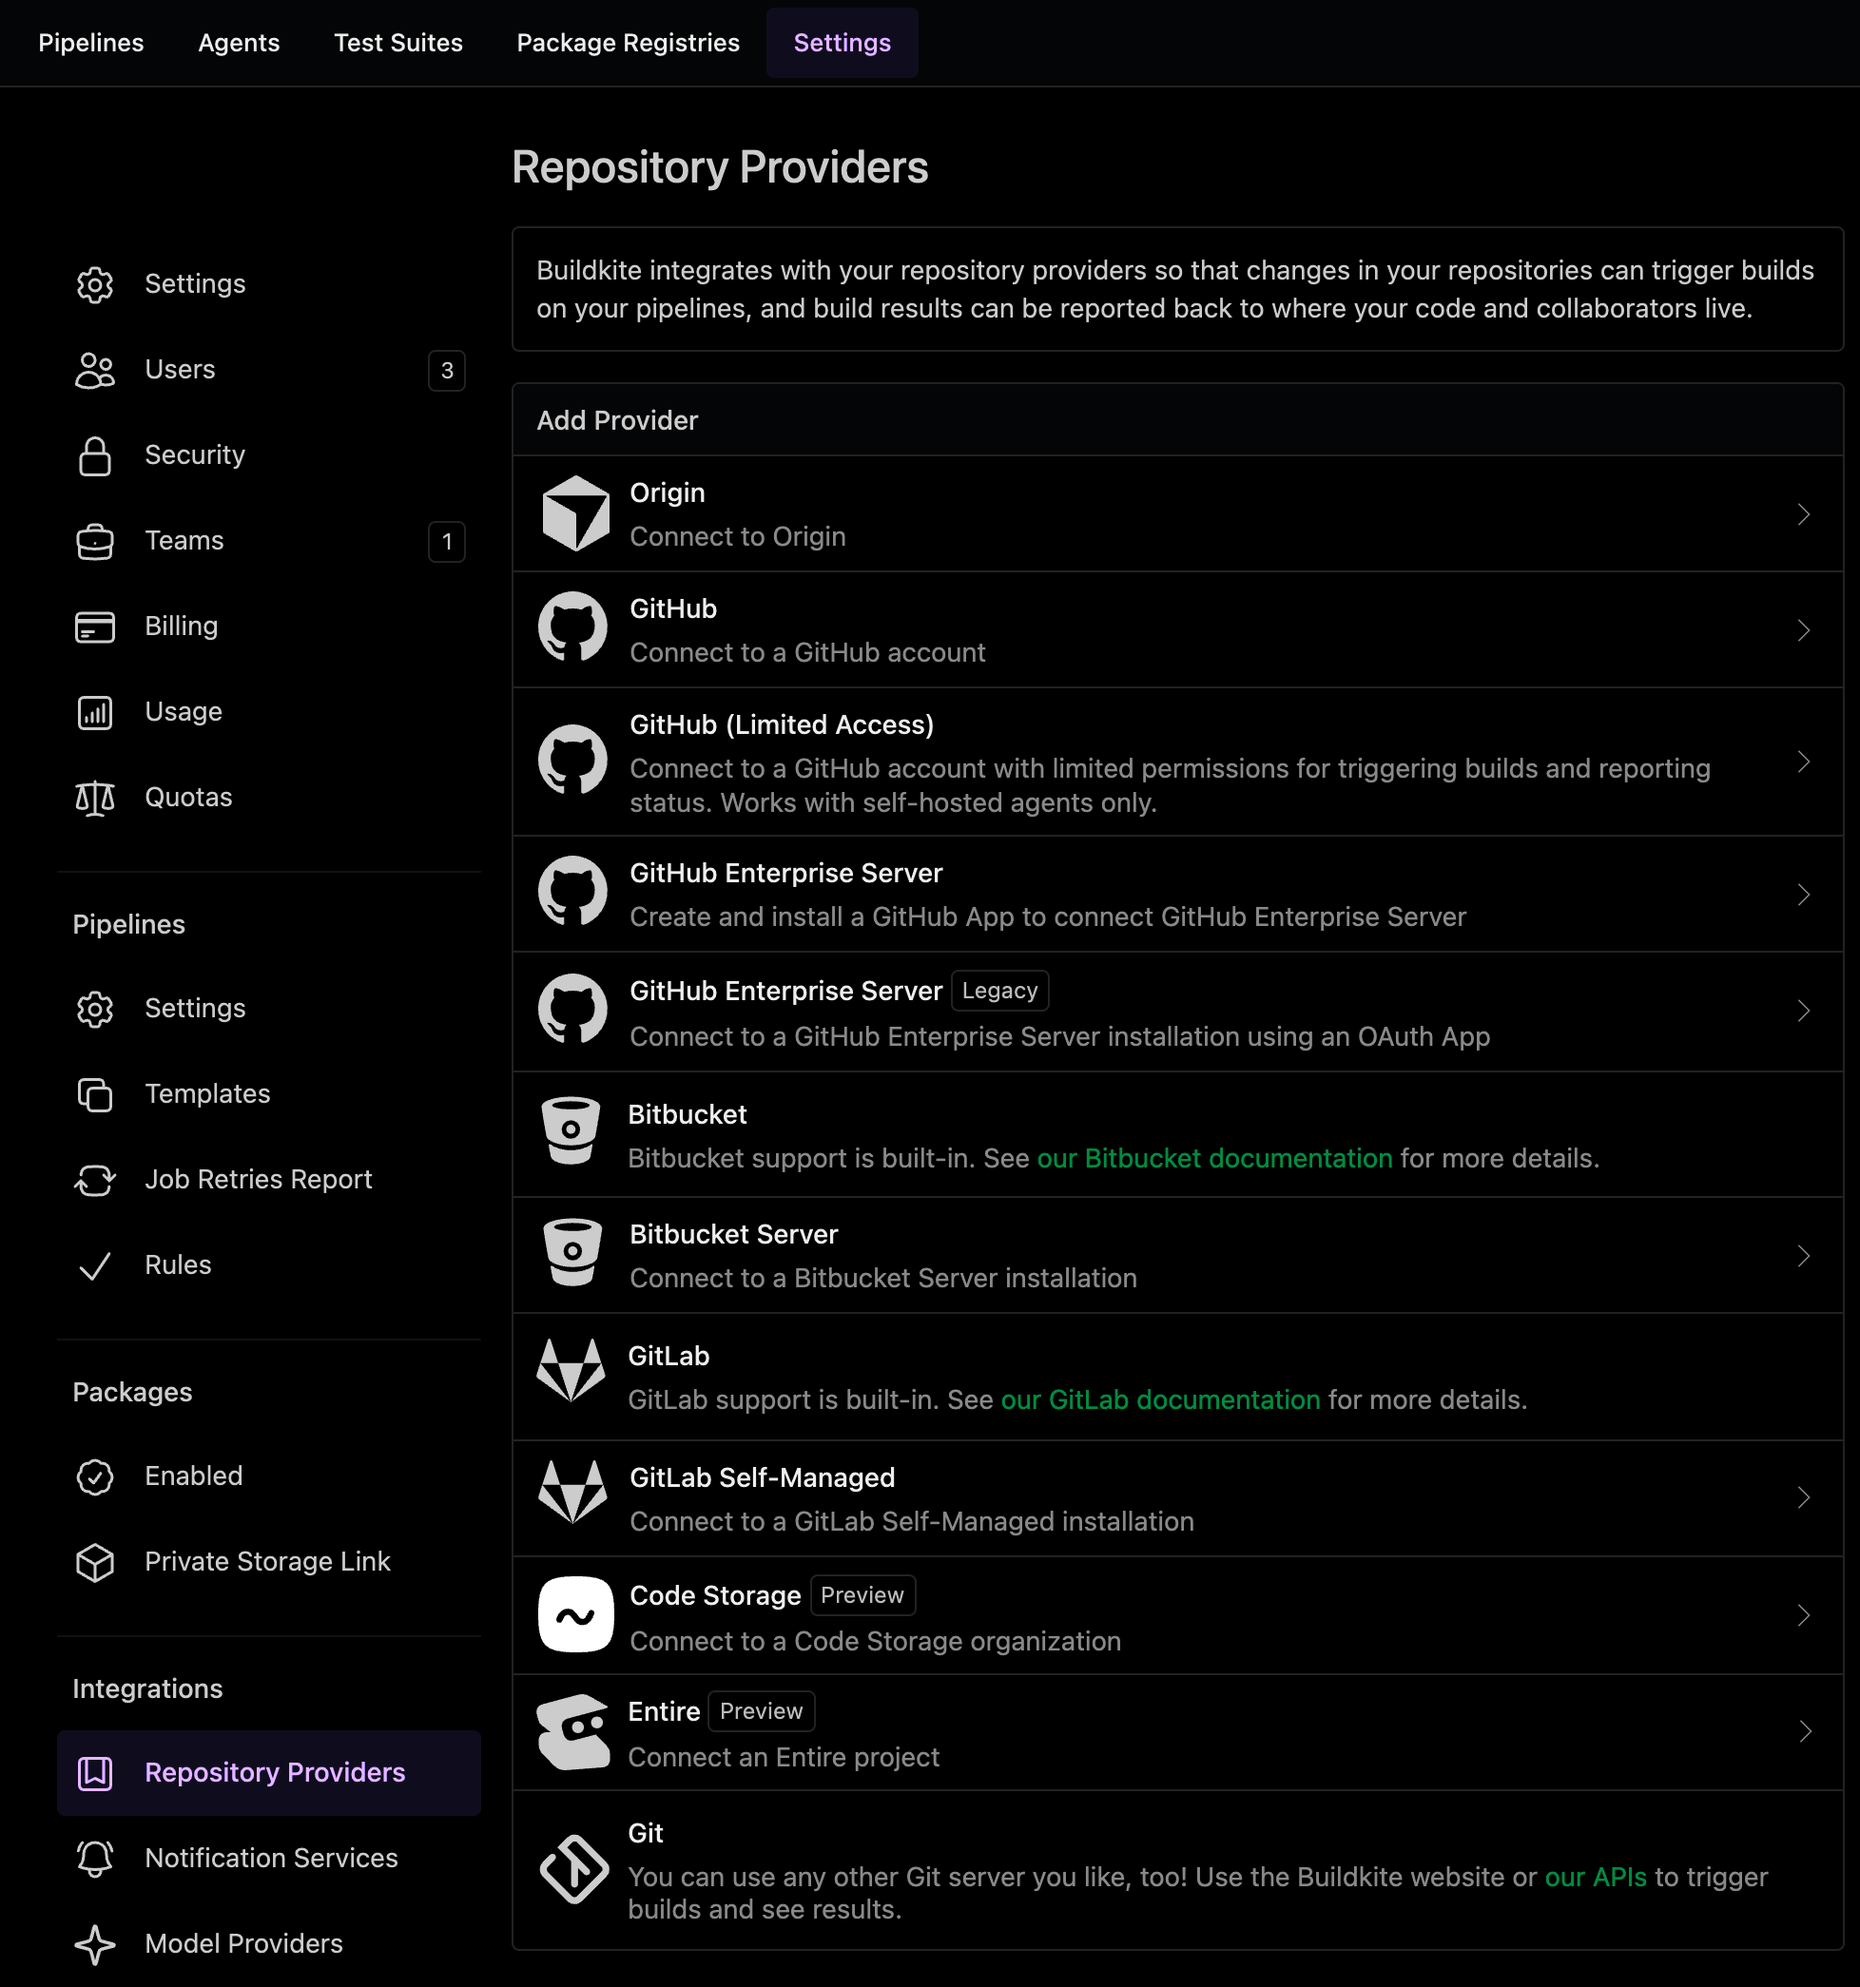
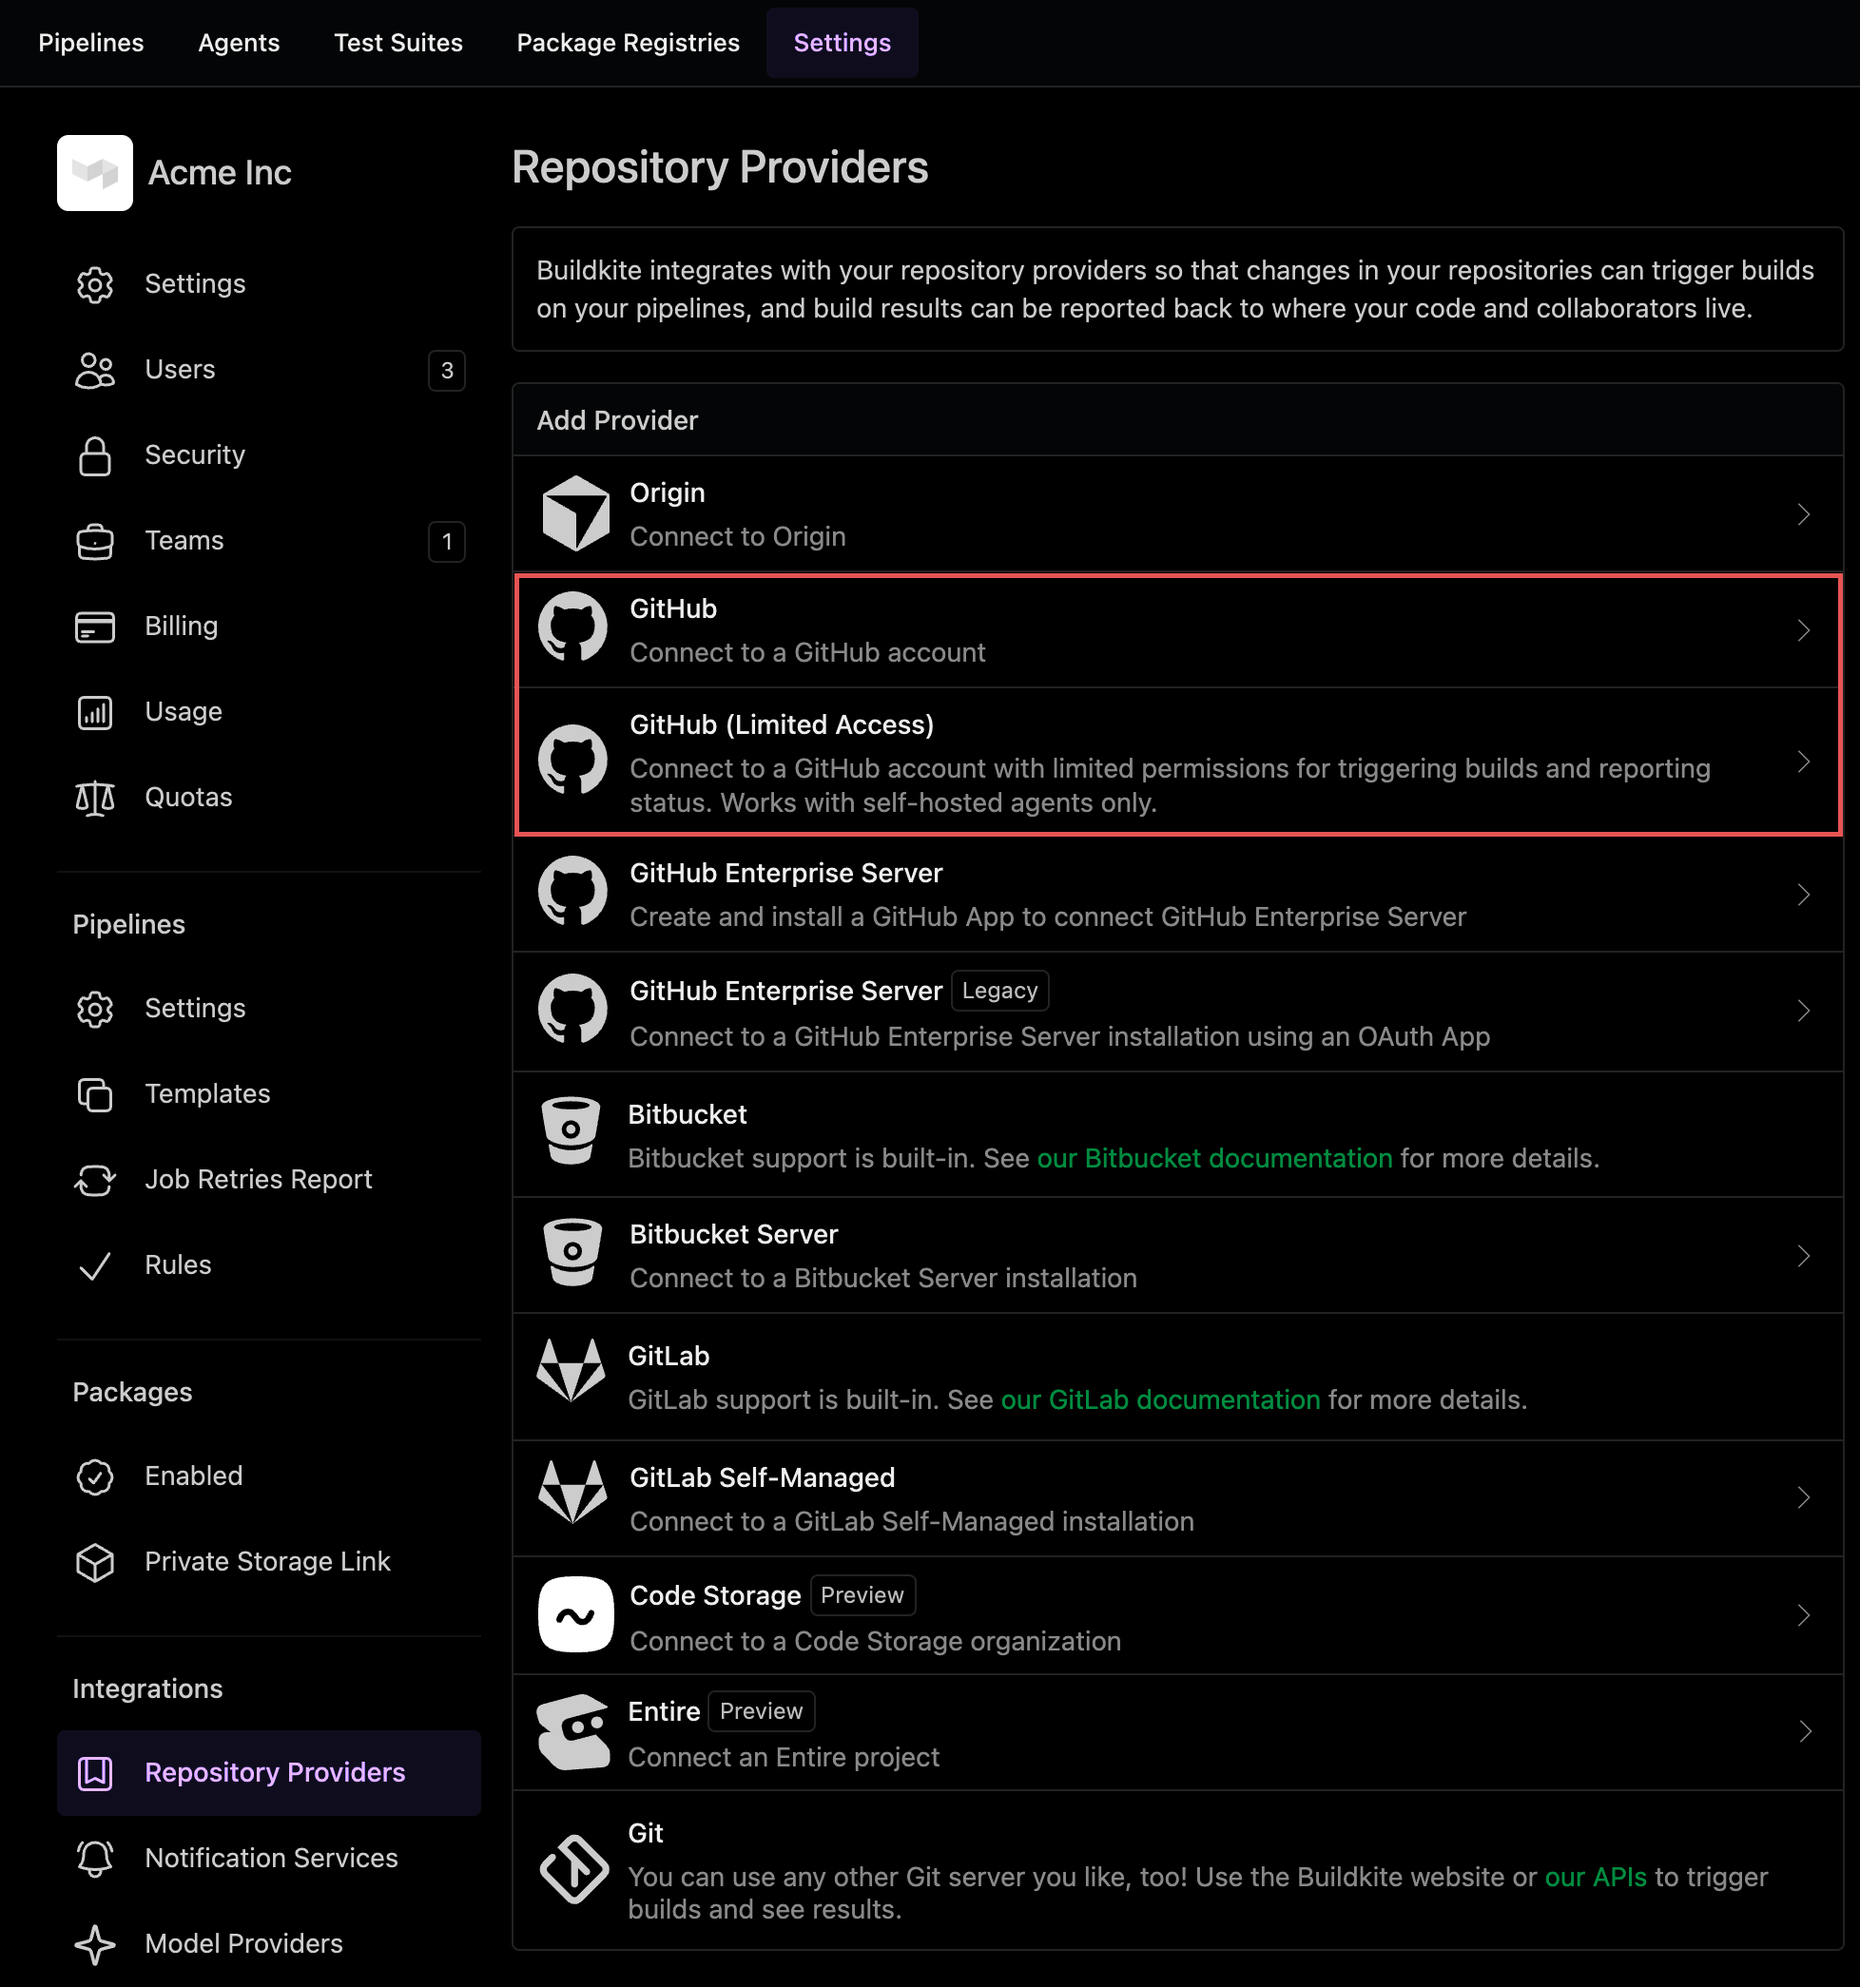
Highlight GitHub providers and show example organization
Amp-Thread-ID: https://ampcode.com/threads/T-82442ed7-d7c2-4a77-bc85-9b37cb23f52a

Changed region(s): [[0.0312, 0.0622, 0.1559, 0.1244], [0.9668, 0.2799, 0.998, 0.311]]

diff --git a/images/docs/pipelines/source_control/github/repository-providers.md b/images/docs/pipelines/source_control/github/repository-providers.md
@@ -6,8 +6,9 @@ Use an administrator account in a dedicated Buildkite integration test organizat
 
 1. Use Chrome for Testing 158 on macOS with a 1000 × 1320 CSS-pixel viewport, 100% zoom, and pixel density two. Use **System** appearance, set browser color-scheme emulation to light, and verify the product renders in light mode. Wait for `document.fonts.ready` and verify the actual rendered heading, labels, and help text use the native system font (`.SF NS` in Chromium).
 1. In the organization, select **Settings** > **Repository Providers**. Verify that **Add Provider** offers both **GitHub** and **GitHub (Limited Access)**. The Limited Access description must end with “Works with self-hosted agents only.” If either option is missing, report it and do not capture a substitute.
-1. For privacy, hide the sidebar's organization name and icon in the DOM without shifting the menu. Omit the separate **Connected Providers** panel if it lists private account connections; do not imply that the organization has none. Keep every row in **Add Provider** visible, in its original order, with its original labels, logos, links, and descriptions.
-1. At scroll y=0, crop the viewport from (0, 46) at 978 × 1045 CSS pixels. Include the active global **Settings** tab, selected **Repository Providers** item under **Integrations**, **Repository Providers** page heading, and complete **Add Provider** list through the final **Git** row. Exclude the global account bar and browser chrome. Move the pointer out of the crop and clear focus styling.
-1. Save `repository-providers.png`. Reload to discard the privacy cleanup. Repeat from fresh navigation with dark color-scheme emulation, verifying the actual dark product theme, and save `repository-providers-dark.png`. Use the same viewport, zoom, scroll, cleanup, and crop. Reload again to restore the original view.
+1. In the browser DOM, replace only the displayed sidebar organization name with **Acme Inc** for the screenshot. Do not rename the organization. Keep the native default organization icon if it is safe to show. Omit the separate **Connected Providers** panel if it lists private account connections; do not imply that the organization has none. Keep every row in **Add Provider** visible, in its original order, with its original labels, logos, links, and descriptions.
+1. At scroll y=0, crop the viewport from (0, 46) at 978 × 1045 CSS pixels. Include the active global **Settings** tab, **Acme Inc**, selected **Repository Providers** item under **Integrations**, **Repository Providers** page heading, and complete **Add Provider** list through the final **Git** row. Exclude the global account bar and browser chrome. Move the pointer out of the crop and clear focus styling.
+1. Add one unfilled coral outline (`#e65454`, 4 physical pixels thick) around the two complete GitHub rows together. In the 2× cropped PNG, the rectangle's stroke centerline runs from (543, 605) to (1935, 877). If the layout changes, remeasure the two row bounds and keep the stroke just inside their combined perimeter without covering icons, labels, or descriptions. Do not add numbers or separate outlines.
+1. Save `repository-providers.png`. Reload to discard the presentation changes. Repeat from fresh navigation with dark color-scheme emulation, verifying the actual dark product theme, and save `repository-providers-dark.png`. Use the same viewport, zoom, scroll, cleanup, crop, and outline. Reload again to verify the real organization name and connected accounts are unchanged.
 
-Accept two 1956 × 2090 PNGs intended to display at up to 978 × 1045 CSS pixels. Check at 800 CSS pixels wide that the navigation path, both GitHub choices, and their full descriptions are legible. The surrounding list remains intact. Exclude connected account details, organization identity, the pointer, and hover or focus styling.
+Accept two 1956 × 2090 PNGs intended to display at up to 978 × 1045 CSS pixels. Check at 800 CSS pixels wide that **Acme Inc**, the navigation path, and both outlined GitHub choices and their full descriptions are legible. The surrounding list remains intact. Exclude connected account details, real organization identity, the pointer, and hover or focus styling.

diff --git a/pages/pipelines/source_control/github.md b/pages/pipelines/source_control/github.md
@@ -55,7 +55,7 @@ Connecting Buildkite and GitHub using the GitHub App lets your GitHub organizati
 1. Open your Buildkite organization's **Settings**.
 1. Select [**Repository Providers**](https://buildkite.com/organizations/~/repository-providers).
 1. Select **GitHub** or **GitHub (Limited Access)** depending on your requirements. See [GitHub repository provider options](#github-repository-provider-options) to determine which option is right for you.
-    <%= image "repository-providers.png", width: 1956/2, height: 2090/2, alt: "Repository Providers selected in Settings, with GitHub and GitHub (Limited Access) in the complete Add Provider list" %>
+    <%= image "repository-providers.png", width: 1956/2, height: 2090/2, alt: "Repository Providers selected in Settings, with GitHub and GitHub (Limited Access) highlighted in the complete Add Provider list" %>
 1. Select **Connect to a new GitHub Account**. If you have never connected your Buildkite and GitHub accounts before, you will first need to select **Connect** and authorize Buildkite.
 1. Select the GitHub organization you want to connect to your Buildkite organization.
 1. Choose which repositories Buildkite should have access to, then select **Install**.
